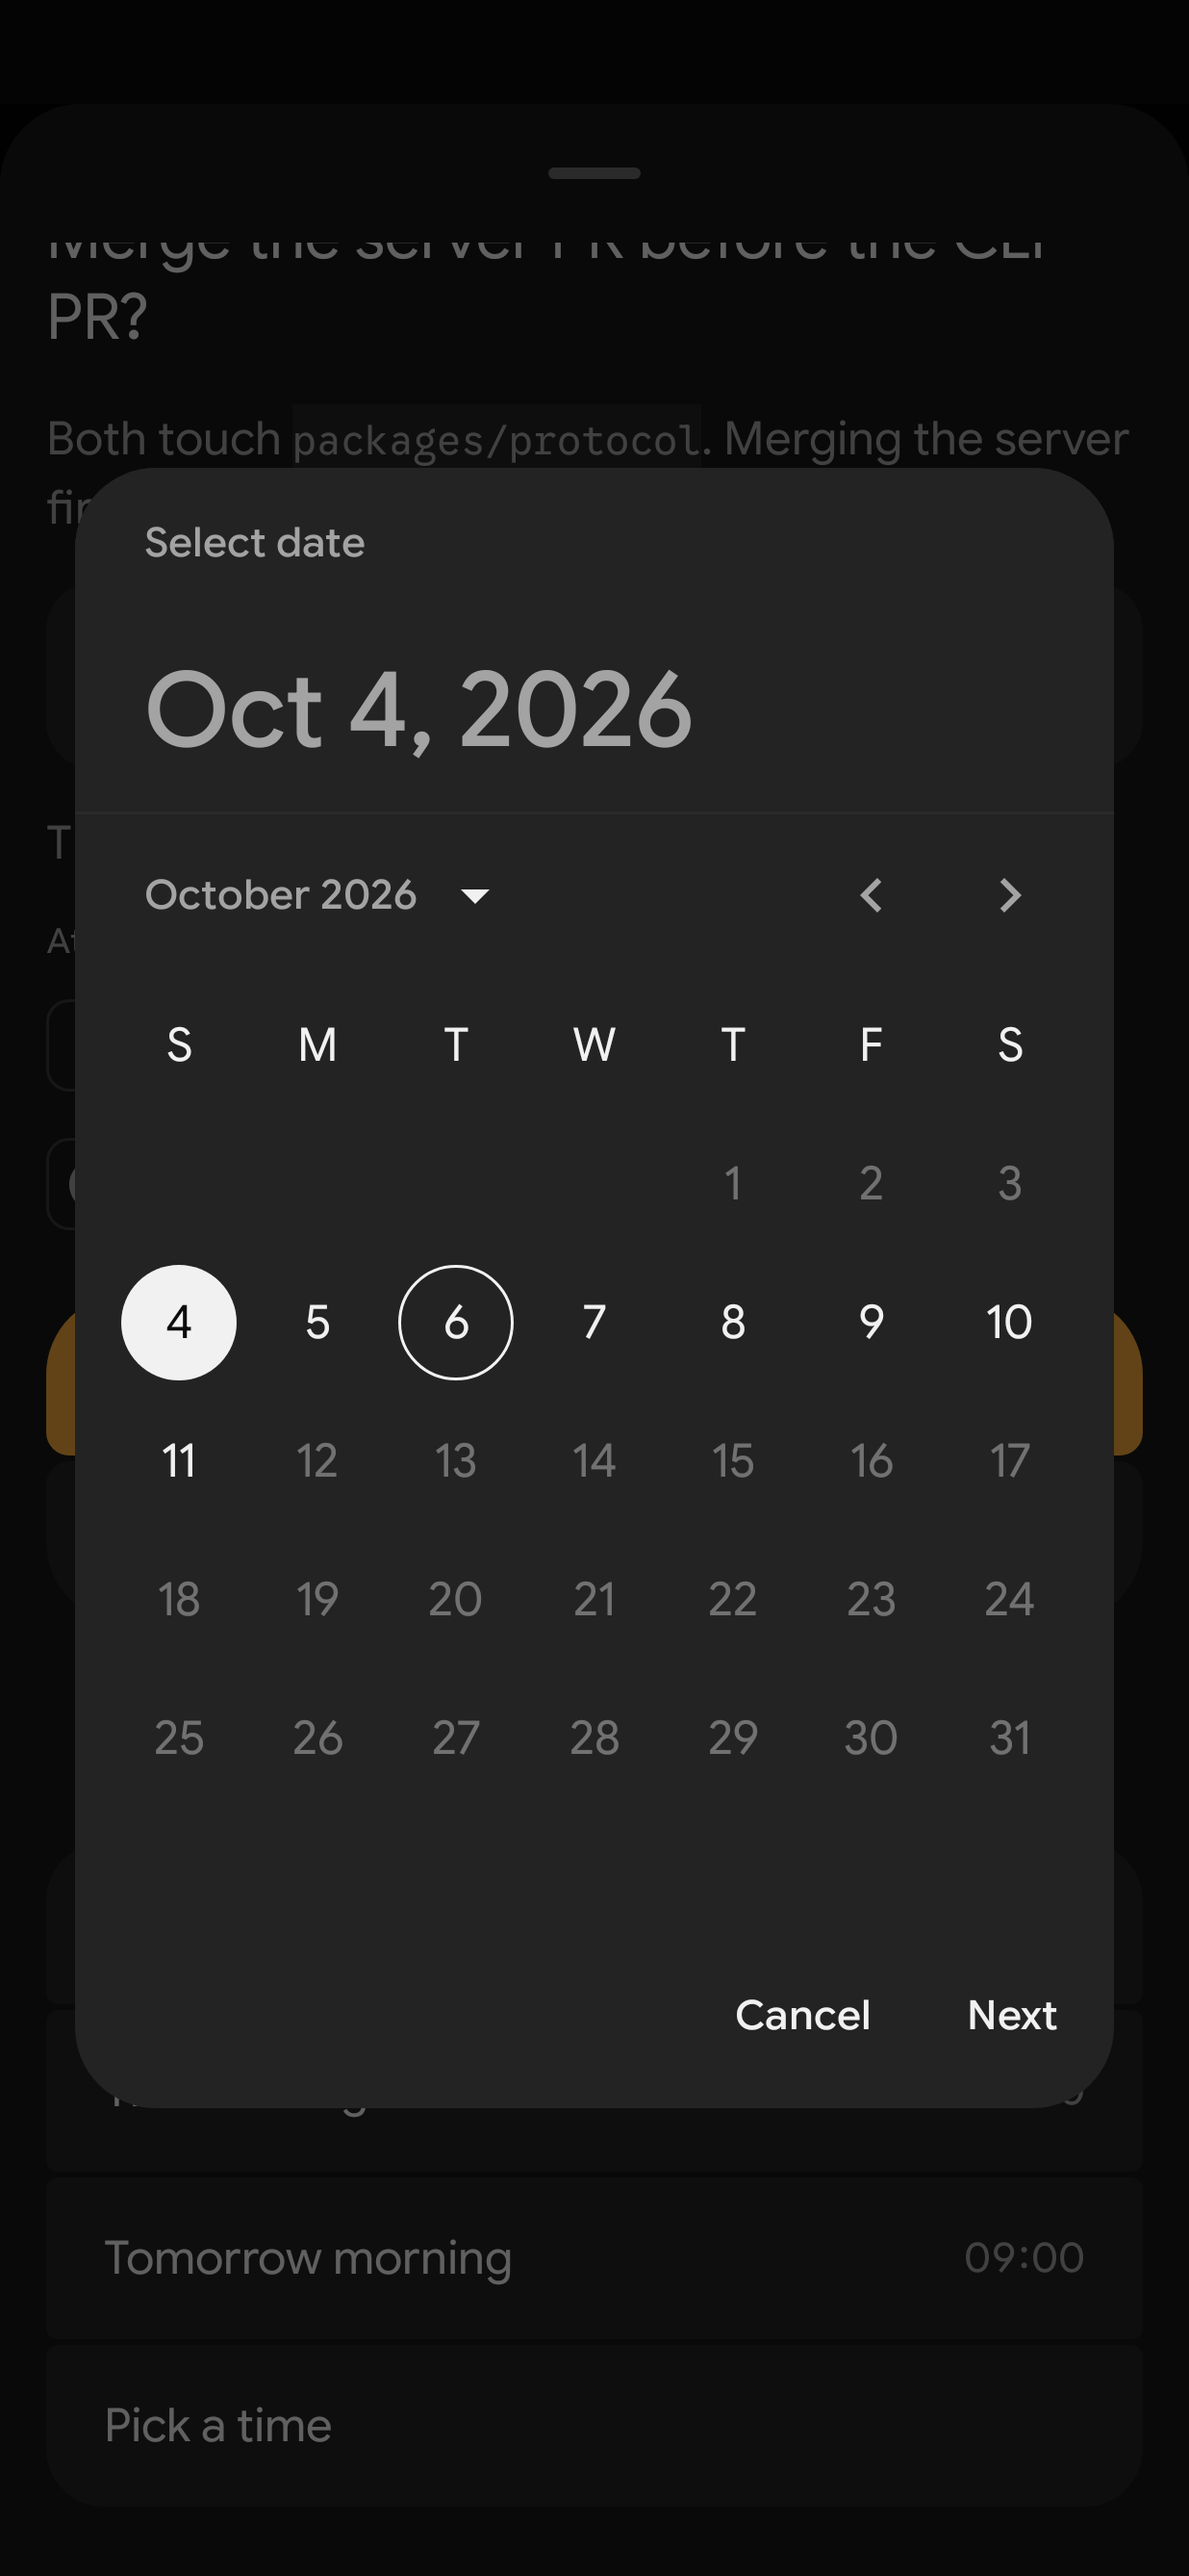
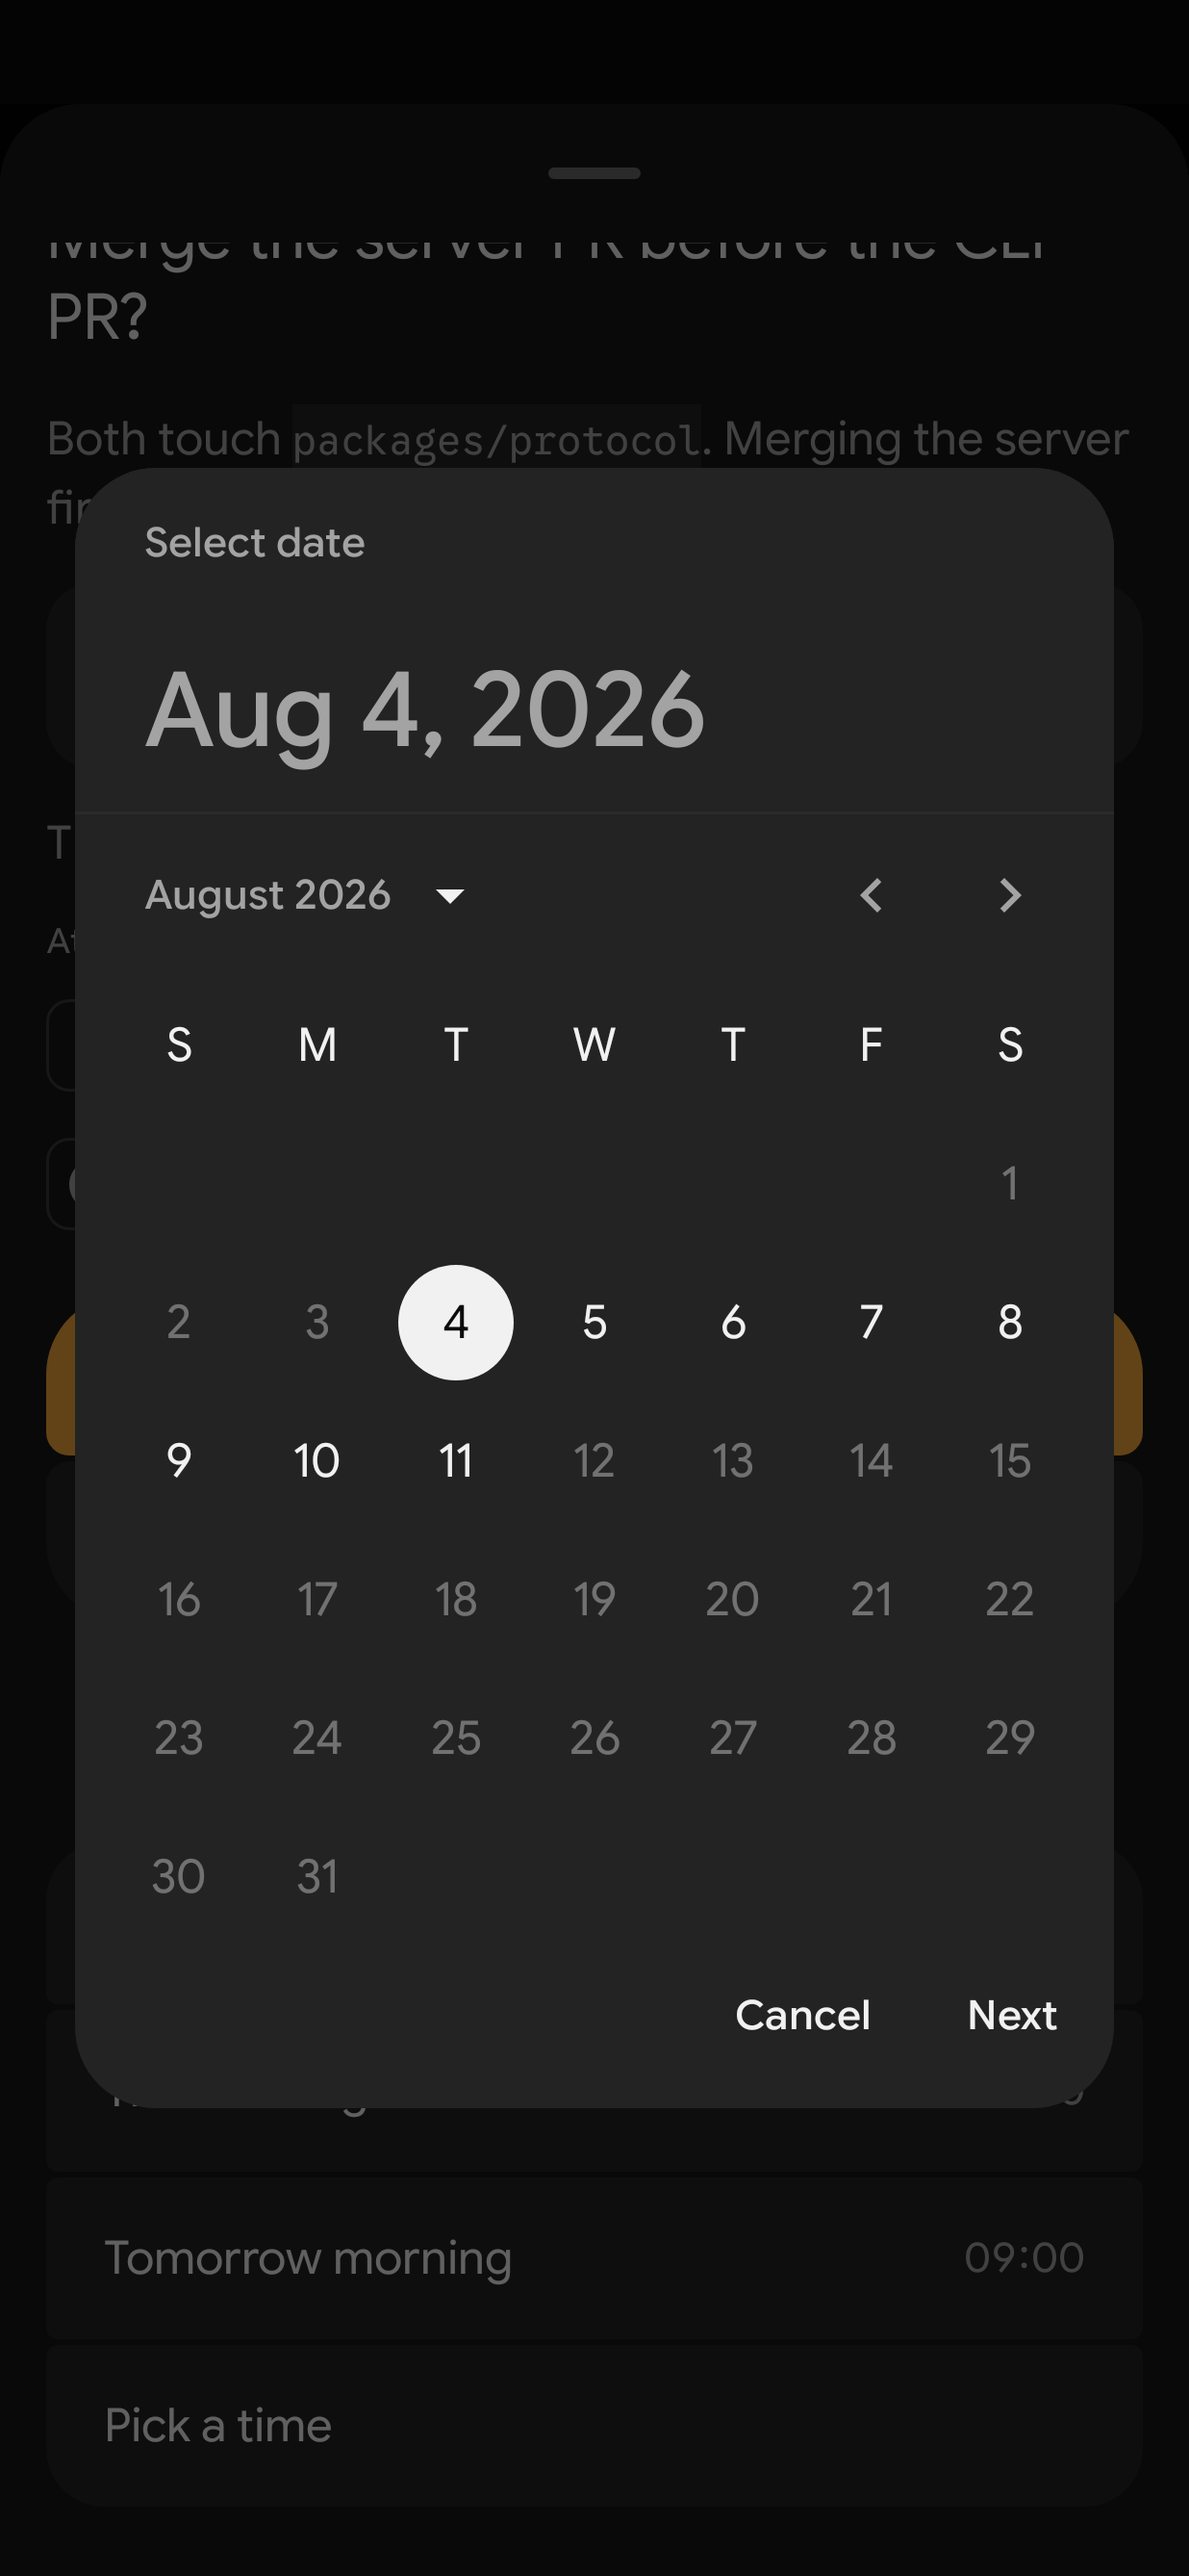
Android: the snooze day picker's screenshot picks from a past month, so no ring shows the real date (#688)

diff --git a/android/app/src/test/kotlin/dev/starbridge/app/ScreenshotTest.kt b/android/app/src/test/kotlin/dev/starbridge/app/ScreenshotTest.kt
@@ -227,8 +227,11 @@ class ScreenshotTest(private val dark: Boolean) {
         Sheet({ QuotasScreen(fake.windows, now) }) { DecisionSheet(fake.snoozed[1], now, { _, _, _ -> }, Replies(rememberDrafts(), emptyMap()), onSnooze = {}) }
     }
 
+    // Material3's date picker rings the real date and takes no clock, so this picks from a month
+    // already over, where no ring shows whatever day it runs (#688).
     @Test fun sheetSnoozePickDay() = captureScreen("sheet-snooze-pick-day", before = { compose.onNodeWithText("Pick a time").performScrollTo().performClick() }) {
-        Sheet({ QuotasScreen(fake.windows, now) }) { DecisionSheet(fake.decisions.first { it.id == "d1" }, now, { _, _, _ -> }, Replies(rememberDrafts(), emptyMap()), onSnooze = {}, snoozeOpen = true) }
+        val past = Instant.parse("2026-08-04T14:00:00Z")
+        Sheet({ QuotasScreen(fake.windows, past) }) { DecisionSheet(fake.decisions.first { it.id == "d1" }, past, { _, _, _ -> }, Replies(rememberDrafts(), emptyMap()), onSnooze = {}, snoozeOpen = true) }
     }
 
     @Test fun sheetSnoozePickTime() = captureScreen("sheet-snooze-pick-time", before = { compose.onNodeWithText("Pick a time").performScrollTo().performClick(); compose.waitForIdle(); compose.onNodeWithText("Next").performClick() }) {
